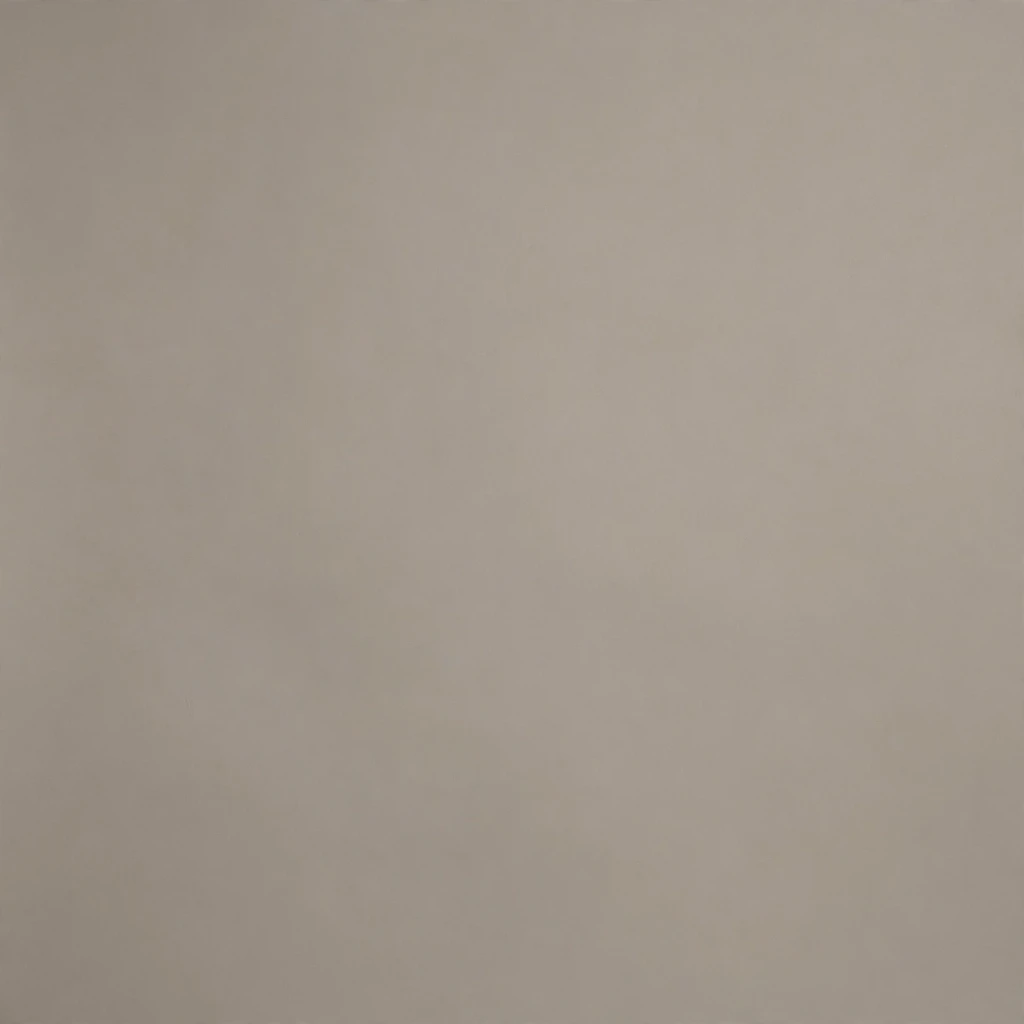
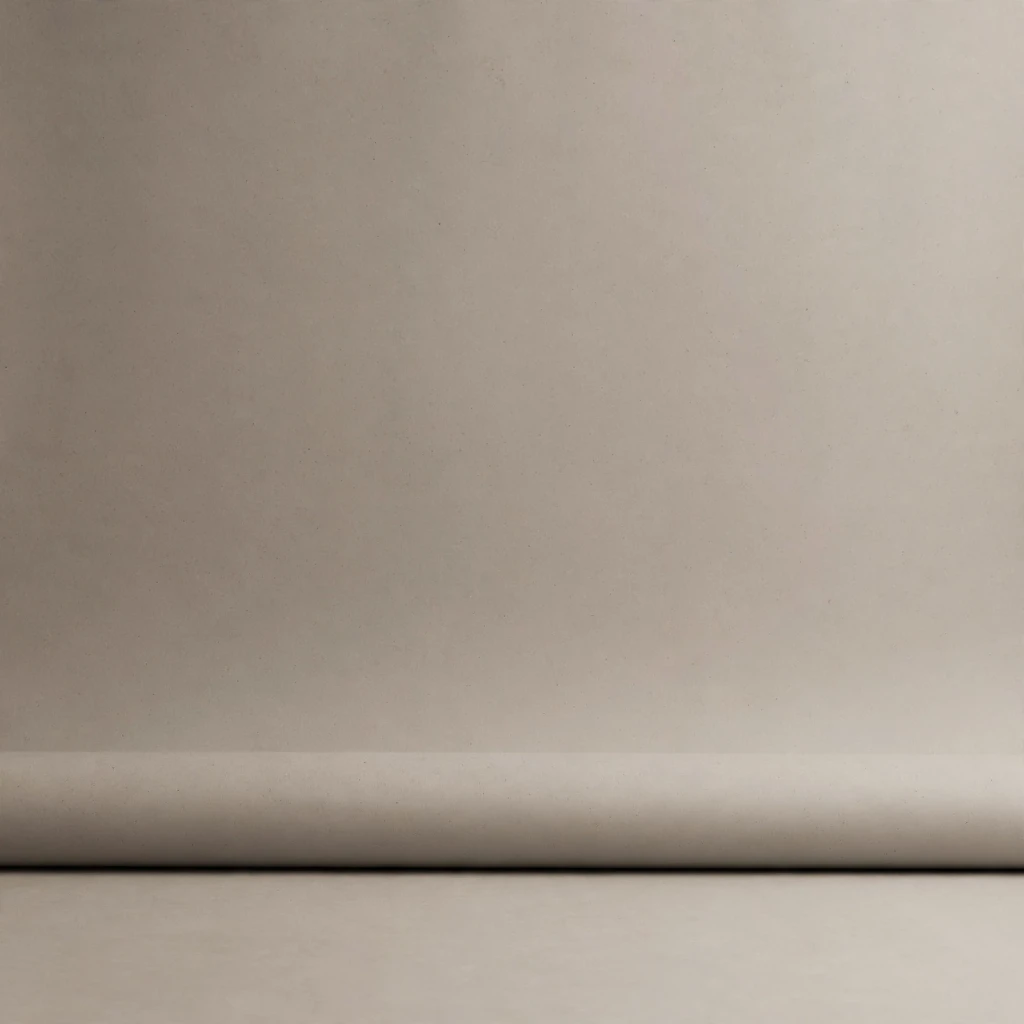
feat: refine starter scenes and products and fill the people grid
Give the studio backdrops a soft floor-to-wall crease, move the packaged
sheet set from Scenes to Products as starter product 101, and replace its
Lifestyle rooms slot with a bedroom dresser. Page the People sections 24 at a
time so the 8-column starter grid fills three rows.

Generated and reviewed four crease backdrops, the bedroom dresser, and the
packaged sheet product through the lab ($0.06). Verified: typecheck, eslint,
library-data unit tests, scenes/products/people E2E (5), and the serial
journey (11/11) with refreshed Scenes, Products, and People screenshots.

diff --git a/src/shared/scene-presets.ts b/src/shared/scene-presets.ts
@@ -21,10 +21,9 @@ export const BUNDLED_SCENE_CATEGORIES: readonly string[] = [
 ]
 
 /**
- * Clean scene photos included with Moss as starting points: 33 settings across
- * six categories. Most are product-free; the packaged sheet set is a product
- * mock-up with a blank label area. A scene supplies the setting, light and
- * props for another image; its subject is never copied. The matching generation
+ * Clean, product-free scene photos included with Moss as starting points: 33
+ * settings across six categories. A scene supplies the setting, light and props
+ * for another image; its subject is never copied. The matching generation
  * prompts live in scripts/lab/scene-pack.mjs; keep ids, names and categories in
  * sync with it (the unit test checks that). The images are
  * resources/scenes/<id>.webp with a 480x480 <id>-thumb.webp.
@@ -34,25 +33,25 @@ export const BUNDLED_SCENE_PRESETS: readonly BundledScenePreset[] = [
     id: 'white-seamless',
     name: 'White seamless studio',
     category: 'Studio backdrops',
-    blurb: 'A flat white backdrop for any product.'
+    blurb: 'A bright white backdrop with a soft floor crease for any product.'
   },
   {
     id: 'warm-grey-sweep',
     name: 'Warm grey studio',
     category: 'Studio backdrops',
-    blurb: 'A flat warm-grey backdrop for neutral products.'
+    blurb: 'A warm-grey backdrop with a soft floor crease for neutral products.'
   },
   {
     id: 'blush-paper',
     name: 'Blush paper backdrop',
     category: 'Studio backdrops',
-    blurb: 'A flat blush backdrop for beauty and gifts.'
+    blurb: 'A blush backdrop with a soft floor crease for beauty and gifts.'
   },
   {
     id: 'charcoal-sweep',
     name: 'Charcoal studio',
     category: 'Studio backdrops',
-    blurb: 'A flat charcoal backdrop for jewelry and glassware.'
+    blurb: 'A charcoal backdrop with a soft floor crease for jewelry and glassware.'
   },
   {
     id: 'stone-plinth',
@@ -67,10 +66,10 @@ export const BUNDLED_SCENE_PRESETS: readonly BundledScenePreset[] = [
     blurb: 'Warm wood, a lamp and soft window light for homeware and candles.'
   },
   {
-    id: 'packaged-sheet-set',
-    name: 'Packaged sheet set',
+    id: 'bedroom-dresser',
+    name: 'Bedroom dresser',
     category: 'Lifestyle rooms',
-    blurb: 'A folded sheet set in a clear case with a blank label for a logo.'
+    blurb: 'A warm wood dresser with morning light for small products.'
   },
   {
     id: 'living-room-console',

diff --git a/src/renderer/src/screens/People.tsx b/src/renderer/src/screens/People.tsx
@@ -16,9 +16,11 @@ import { useAppStore } from '../store/app'
 import { unwrap, messageOf } from '../lib/ipc'
 import { fileToBytes } from '../lib/files'
 import { toast } from '../lib/toast'
-import { COLLECTION_PAGE_SIZE } from '@shared/constants'
 import { DropdownMenu } from 'radix-ui'
 import { Heading, Icon, Selector, Text, TextInput, ToggleButton, ToggleButtonGroup } from '@astryxdesign/core'
+
+/** 24 fills three rows of the eight-column starter grid at 1440. */
+const PEOPLE_PAGE_SIZE = 24
 
 function PersonCard({
   person,
@@ -127,16 +129,16 @@ export function People(): React.JSX.Element {
   }
   const included = sortPeople(matching.filter((person) => person.source === 'bundled'))
   const yours = sortPeople(matching.filter((person) => person.source === 'user'))
-  const visibleYours = yours.slice((yoursPage - 1) * COLLECTION_PAGE_SIZE, yoursPage * COLLECTION_PAGE_SIZE)
-  const visibleIncluded = included.slice((starterPage - 1) * COLLECTION_PAGE_SIZE, starterPage * COLLECTION_PAGE_SIZE)
+  const visibleYours = yours.slice((yoursPage - 1) * PEOPLE_PAGE_SIZE, yoursPage * PEOPLE_PAGE_SIZE)
+  const visibleIncluded = included.slice((starterPage - 1) * PEOPLE_PAGE_SIZE, starterPage * PEOPLE_PAGE_SIZE)
 
   useEffect(() => {
-    const pages = Math.max(1, Math.ceil(yours.length / COLLECTION_PAGE_SIZE))
+    const pages = Math.max(1, Math.ceil(yours.length / PEOPLE_PAGE_SIZE))
     if (yoursPage > pages) setYoursPage(pages)
   }, [yours.length, yoursPage])
 
   useEffect(() => {
-    const pages = Math.max(1, Math.ceil(included.length / COLLECTION_PAGE_SIZE))
+    const pages = Math.max(1, Math.ceil(included.length / PEOPLE_PAGE_SIZE))
     if (starterPage > pages) setStarterPage(pages)
   }, [included.length, starterPage])
 
@@ -359,6 +361,7 @@ export function People(): React.JSX.Element {
             <Pagination
               page={yoursPage}
               total={yours.length}
+              pageSize={PEOPLE_PAGE_SIZE}
               onPage={setYoursPage}
               label="Your people pages"
             />
@@ -377,6 +380,7 @@ export function People(): React.JSX.Element {
             <Pagination
               page={starterPage}
               total={included.length}
+              pageSize={PEOPLE_PAGE_SIZE}
               onPage={setStarterPage}
               label="Starter people pages"
             />

diff --git a/tests/unit/library-data.test.ts b/tests/unit/library-data.test.ts
@@ -179,11 +179,7 @@ describe('bundled scene presets', () => {
       expect(entry?.name).toBe(scene.name)
       expect(entry?.category).toBe(scene.category)
       expect(entry?.prompt.length ?? 0).toBeGreaterThan(0)
-      if (scene.id === 'packaged-sheet-set') {
-        expect(entry?.prompt).toContain('blank')
-      } else {
-        expect(entry?.prompt).toContain('no product in the frame')
-      }
+      expect(entry?.prompt).toContain('no product in the frame')
     }
   })
 
@@ -303,9 +299,9 @@ describe('cost and file naming', () => {
 })
 
 describe('bundled products', () => {
-  it('ships one hundred unique unbranded starter products across nineteen categories', () => {
-    expect(BUNDLED_PRODUCTS).toHaveLength(100)
-    expect(new Set(BUNDLED_PRODUCTS.map((product) => product.id)).size).toBe(100)
+  it('ships one hundred and one unique unbranded starter products across nineteen categories', () => {
+    expect(BUNDLED_PRODUCTS).toHaveLength(101)
+    expect(new Set(BUNDLED_PRODUCTS.map((product) => product.id)).size).toBe(101)
     expect(BUNDLED_PRODUCT_SIZE).toBe(1024)
     expect(BUNDLED_PRODUCTS.some((product) => product.name === 'Speckled mug')).toBe(true)
     const categories = Array.from(new Set(BUNDLED_PRODUCTS.map((product) => product.category)))
@@ -347,7 +343,7 @@ describe('bundled products', () => {
 
   it('maps bundled products to resources without a saved row', () => {
     const cards = bundledProductCards()
-    expect(cards).toHaveLength(100)
+    expect(cards).toHaveLength(101)
     for (const card of cards) {
       expect(card.source).toBe('bundled')
       expect(card.width).toBe(1024)

diff --git a/src/shared/products.ts b/src/shared/products.ts
@@ -12,7 +12,7 @@ export interface BundledProduct {
 export const BUNDLED_PRODUCT_SIZE = 1024
 
 /**
- * Clean, unbranded product photos included with Moss as starting points: 100
+ * Clean, unbranded product photos included with Moss as starting points: 101
  * products across 19 categories. The matching generation prompts live in
  * scripts/lab/product-pack.mjs; keep ids, names and categories in sync with it
  * (the unit test checks that). The images are
@@ -444,6 +444,12 @@ export const BUNDLED_PRODUCTS: readonly BundledProduct[] = [
     name: 'Oven mitt',
     category: 'Textiles and soft furnishings',
     blurb: 'A quilted natural linen oven mitt.'
+  },
+  {
+    id: 'packaged-sheet-set',
+    name: 'Packaged sheet set',
+    category: 'Textiles and soft furnishings',
+    blurb: 'A folded sheet set in a clear case with a blank label.'
   },
   {
     id: 'ribbed-tumbler',

diff --git a/tests/e2e/included-products.spec.ts b/tests/e2e/included-products.spec.ts
@@ -18,7 +18,7 @@ test('included products start an editor and generator project, and Create a Prod
     await page.getByRole('button', { name: 'Skip for Now' }).click()
     await page.getByRole('link', { name: 'Products', exact: true }).click()
     await expect(page.getByRole('heading', { name: 'Products', exact: true })).toBeVisible()
-    await expect(page.getByText('100 starter products · 0 of yours')).toBeVisible()
+    await expect(page.getByText('101 starter products · 0 of yours')).toBeVisible()
     await expect(page.getByText('Starter Products', { exact: true })).toBeVisible()
     await expect(page.getByRole('button', { name: 'Open Amber dropper bottle' })).toBeVisible()
     await page.getByRole('button', { name: 'Ceramics and pottery', exact: true }).click()

diff --git a/tests/e2e/scenes.spec.ts b/tests/e2e/scenes.spec.ts
@@ -49,6 +49,7 @@ test('a preset scene opens the generator and is sent with the product', async ()
     await assertNoSeriousA11y(page, 'scenes')
     await page.getByRole('button', { name: 'Lifestyle rooms', exact: true }).click()
     await expect(page.getByRole('button', { name: 'Open Oak side table' })).toBeVisible()
+    await expect(page.getByRole('button', { name: 'Open Bedroom dresser' })).toBeVisible()
     await expect(page.getByRole('button', { name: 'Open White seamless studio' })).toHaveCount(0)
     await page.getByRole('button', { name: 'Outdoor spaces', exact: true }).click()
     await expect(page.getByRole('button', { name: 'Open Backyard wall' })).toBeVisible()

diff --git a/docs/lab.md b/docs/lab.md
@@ -71,11 +71,11 @@ Put a real product photo in `lab/sources/` and pass its path to `edit` or `creat
 
 ## Product pack
 
-`npm run lab -- products` generates the 100 included starter products (10 expanded categories plus 9 new ones) from `scripts/lab/product-pack.mjs` (100 images, $1.00) into `lab/products/`. Each request is a square generation on a pure white seamless background; the lab writes a 1024×1024 WebP and a 480×480 `<id>-thumb.webp`. `--ids` and `--force` narrow or replace the batch. Generate the pack in batches of 8–12 ids rather than one long request set: each run's `sheet.webp` stays readable, a failure only affects one batch, and the ledger is predictable. The default cap is $5.00 and a full pack plus retries is about $1.20, so check the current total before starting and stop if the cap is reached. Start with a four-product pilot (`--ids perfume-bottle,pullover-hoodie,phone-case,art-poster`), review the run's `sheet.webp` for readable labels or text, framing, white background and a complete product, then run the rest. Copy only approved files into `resources/products/`; `src/shared/products.ts` holds the catalog and the asset test checks every full and thumb file. The unit test also fails if the pack and the catalog disagree on an id, name or category.
+`npm run lab -- products` generates the 101 included starter products (10 expanded categories plus 9 new ones) from `scripts/lab/product-pack.mjs` (101 images, $1.01) into `lab/products/`. Each request is a square generation on a pure white seamless background; the lab writes a 1024×1024 WebP and a 480×480 `<id>-thumb.webp`. `--ids` and `--force` narrow or replace the batch. Generate the pack in batches of 8–12 ids rather than one long request set: each run's `sheet.webp` stays readable, a failure only affects one batch, and the ledger is predictable. The default cap is $5.00 and a full pack plus retries is about $1.21, so check the current total before starting and stop if the cap is reached. Start with a four-product pilot (`--ids perfume-bottle,pullover-hoodie,phone-case,art-poster`), review the run's `sheet.webp` for readable labels or text, framing, white background and a complete product, then run the rest. Copy only approved files into `resources/products/`; `src/shared/products.ts` holds the catalog and the asset test checks every full and thumb file. The unit test also fails if the pack and the catalog disagree on an id, name or category.
 
 ## Scene pack
 
-`npm run lab -- scenes` generates the 33 included preset scenes from `scripts/lab/scene-pack.mjs` (33 images, $0.33) into `lab/scenes/`. Most requests are a square generation of a setting with an empty surface and no product subject; the lab writes a 1024×1024 WebP and a 480×480 `<id>-thumb.webp`. The four studio backdrops must be straight-on, flat, and completely free of a visible backdrop edge, roll, curve or shadow. The packaged sheet set is the one deliberate product-style scene: a clear case with a blank label area and no writing. The three Outdoor spaces wall facades must show the empty wall where a lamp would hang and must not include the lamp. `--ids` and `--force` narrow or replace the batch. Generate in batches of 8–12 and review each run's `sheet.webp` for a product, people, readable text or logos, a clear empty surface and the right category mood; regenerate with a stronger no-product clause or use a reserve scene if one keeps a subject. Copy only approved files into `resources/scenes/`; `src/shared/scene-presets.ts` holds the catalog and the asset test checks every full and thumb file. The unit test also fails if the pack and the catalog disagree on an id, name or category. Scenes are reference photos, not the eight prompt-based scene looks in Quick Looks.
+`npm run lab -- scenes` generates the 33 included preset scenes from `scripts/lab/scene-pack.mjs` (33 images, $0.33) into `lab/scenes/`. Each request is a square generation of a setting with an empty surface and no product subject; the lab writes a 1024×1024 WebP and a 480×480 `<id>-thumb.webp`. The four studio backdrops must be straight-on with a soft, gently rolling floor-to-wall crease low in the frame; keep the wall and floor readable, with no visible paper roll or side edge and no harsh shadows. The three Outdoor spaces wall facades must show the empty wall where a lamp would hang and must not include the lamp. `--ids` and `--force` narrow or replace the batch. Generate in batches of 8–12 and review each run's `sheet.webp` for a product, people, readable text or logos, a clear empty surface and the right category mood; regenerate with a stronger no-product clause or use a reserve scene if one keeps a subject. Copy only approved files into `resources/scenes/`; `src/shared/scene-presets.ts` holds the catalog and the asset test checks every full and thumb file. The unit test also fails if the pack and the catalog disagree on an id, name or category. Scenes are reference photos, not the eight prompt-based scene looks in Quick Looks.
 
 ## Example images
 

diff --git a/docs/manual-test.md b/docs/manual-test.md
@@ -62,7 +62,7 @@ On this headless Linux host, run Playwright through Xvfb (`xvfb-run -a npx playw
 
 ## Products
 
-- Products shows “100 starter products · N of yours,” search, sort, category pills, and pagination. The starter list pages 20 at a time; category pills filter Starter Products only.
+- Products shows “101 starter products · N of yours,” search, sort, category pills, and pagination. The starter list pages 20 at a time; category pills filter Starter Products only.
 - Starter Products open with Edit Photo and Make an Image with this Product, without Rename or Delete. Hovering a starter card offers Use in Generator and Try in Editor; hovering a saved product offers Generate Scene, Edit Photo, and View Projects.
 - Generate Product Photo opens the Image Generator with the product prompt; Save as Product adds it under Your Products. Add Product Photo asks for a name before saving.
 - A product hub keeps Products selected in the left navigation, shows a contextual Products back button, and puts the product name in the window title. It shows the source photo, Product notes, Add to Set, Make an Image with this Product, linked projects, Link Existing Projects, archive, and delete. Clicking the product title renames it in place; Enter saves, Escape cancels, and clicking away saves. Notes save locally and are added to later image prompts only when this product is selected. The empty project state offers Edit Photo (Free) and Make an Image.
@@ -71,7 +71,7 @@ On this headless Linux host, run Playwright through Xvfb (`xvfb-run -a npx playw
 ## Scenes
 
 - Scenes shows “33 starter scenes · N of yours,” search, sort, category pills, and pagination. The starter scenes are filtered by six categories; Your Scenes pages separately.
-- The four studio backdrops are straight-on, flat, and shadow-free, with no visible backdrop edge; the packaged sheet set has a clear case and a blank label area; the three Outdoor spaces wall facades have an empty space for a hanging lamp and no lamp in the frame.
+- The four studio backdrops are straight-on with a soft floor-to-wall crease low in the frame, no visible paper roll or side edge, and no harsh shadows; the three Outdoor spaces wall facades have an empty space for a hanging lamp and no lamp in the frame.
 - Add Scene Photo saves a photo with a name; user scenes can be renamed or deleted. Opening a scene shows the full image and Make an Image with this Scene, which opens the Image Generator with the scene chip ready for a product photo.
 - Choose a Scene in the Image Editor or Image Generator opens a dialog with Presets, Your Scenes, and Projects. Presets and Your Scenes use the scene reference path; Projects keeps the existing ready-image scene reference. The setting and light are borrowed; the subject is never copied.
 - The Scenes page and the scene picker are included in the axe pass.
@@ -99,7 +99,7 @@ On this headless Linux host, run Playwright through Xvfb (`xvfb-run -a npx playw
 
 ## People
 
-- People lists Your People first and the first 20 of 50 starter synthetic people, paged 20 at a time. The starter grid still stays above the fold at 1440 × 900. An empty Your People section is a single compact line, not a large empty card.
+- People lists Your People first and the first 24 of 50 starter synthetic people, paged 24 at a time. The starter grid still stays above the fold at 1440 × 900. An empty Your People section is a single compact line, not a large empty card.
 - Age chips All, 20s, and 30s+ filter the casting grid; Default, Name, and Most used sort it.
 - Starter people open with four studio looks; the original can be restored. Clicking a look selects it, the active ring is visible, and the dialog explains how the chosen angle guides pose and framing.
 - Make an Image with This Person seeds the generator with the person and look.

diff --git a/DECISIONS.md b/DECISIONS.md
@@ -339,3 +339,9 @@ Each entry records a choice that was not fixed by the brief, or a place where th
 ## Scene revisions
 
 142. **Studio backdrops are straight-on and shadow-free, the linen bed is replaced by a packaged sheet set, and Outdoor spaces adds three wall facades.** The four studio backdrop presets are flat, evenly lit front views with no visible backdrop edge, roll, curve or shadow so a product image can be placed on them. The packaged sheet set is the one deliberate product-style scene, with a clear case and a blank label area for a seller logo. The three wall facades are side portions of backyard walls with an empty space for a hanging lamp and no lamp in the frame. The scene pack and catalog stay in sync, and the scene page counts and screenshots are updated.
+
+## Scene and starter grid refinements
+
+143. **The packaged sheet set is a product, the studio backdrops carry a soft floor crease, and Lifestyle rooms gets a bedroom dresser.** The packaged sheet mock-up no longer belongs in a scene library that treats images as setting and light; it is starter product 101 in Textiles and soft furnishings on the product white background. Its old Lifestyle rooms slot is replaced by a bedroom dresser scene, so the scene count stays 33 and every scene is product-free again. The four studio backdrops are now straight-on with a soft, gently rolling floor-to-wall crease low in the frame so the floor and wall are readable when a product is placed on them, with no visible paper roll or side edge and no harsh shadows. This supersedes the flat, no-floor studio backdrops and the packaged-sheet scene in Decision 142.
+
+144. **The People page pages 24 per section so the starter grid fills its rows.** The starter grid is eight columns at 1440, so 50 people paged 20 at a time left four empty spots in the third row; 24 fills three full rows. Both Your People and Starter People use the same 24 page size and the pagination clamps and resets the same way. This supersedes the 20-per-page detail in Decision 141.

diff --git a/README.md b/README.md
@@ -30,11 +30,11 @@ Attached Product, Person, and Scene references appear as removable chips, so the
 
 The Details panel keeps the selected image's description, size, cost, and actions together with the output settings and past makes. At a smaller window, **Details** opens the same panel over the results.
 
-Generated images can be saved to a Set, as a product, or as a person. A product photo can come from your saved products or from the 100 starter products. A generated project appears in All work after its first image.
+Generated images can be saved to a Set, as a product, or as a person. A product photo can come from your saved products or from the 101 starter products. A generated project appears in All work after its first image.
 
 ### Products
 
-Save a product photo as a Product, or start from one of the 100 clean, unbranded starter products across 19 categories. Starter products filter by category, page 20 at a time, and offer Use in Generator / Try in Editor. Saved products offer Generate Scene, Edit Photo, and View Projects. You can also add and name a product from the product picker while starting new work.
+Save a product photo as a Product, or start from one of the 101 clean, unbranded starter products across 19 categories. Starter products filter by category, page 20 at a time, and offer Use in Generator / Try in Editor. Saved products offer Generate Scene, Edit Photo, and View Projects. You can also add and name a product from the product picker while starting new work.
 
 A product page keeps Products active in the sidebar, adds a Products back button and the product name in the window title, and renames inline. **Product notes** hold material, colour, style, or other details that should stay true. The notes stay on this computer and join the image prompt only when that product is selected.
 
